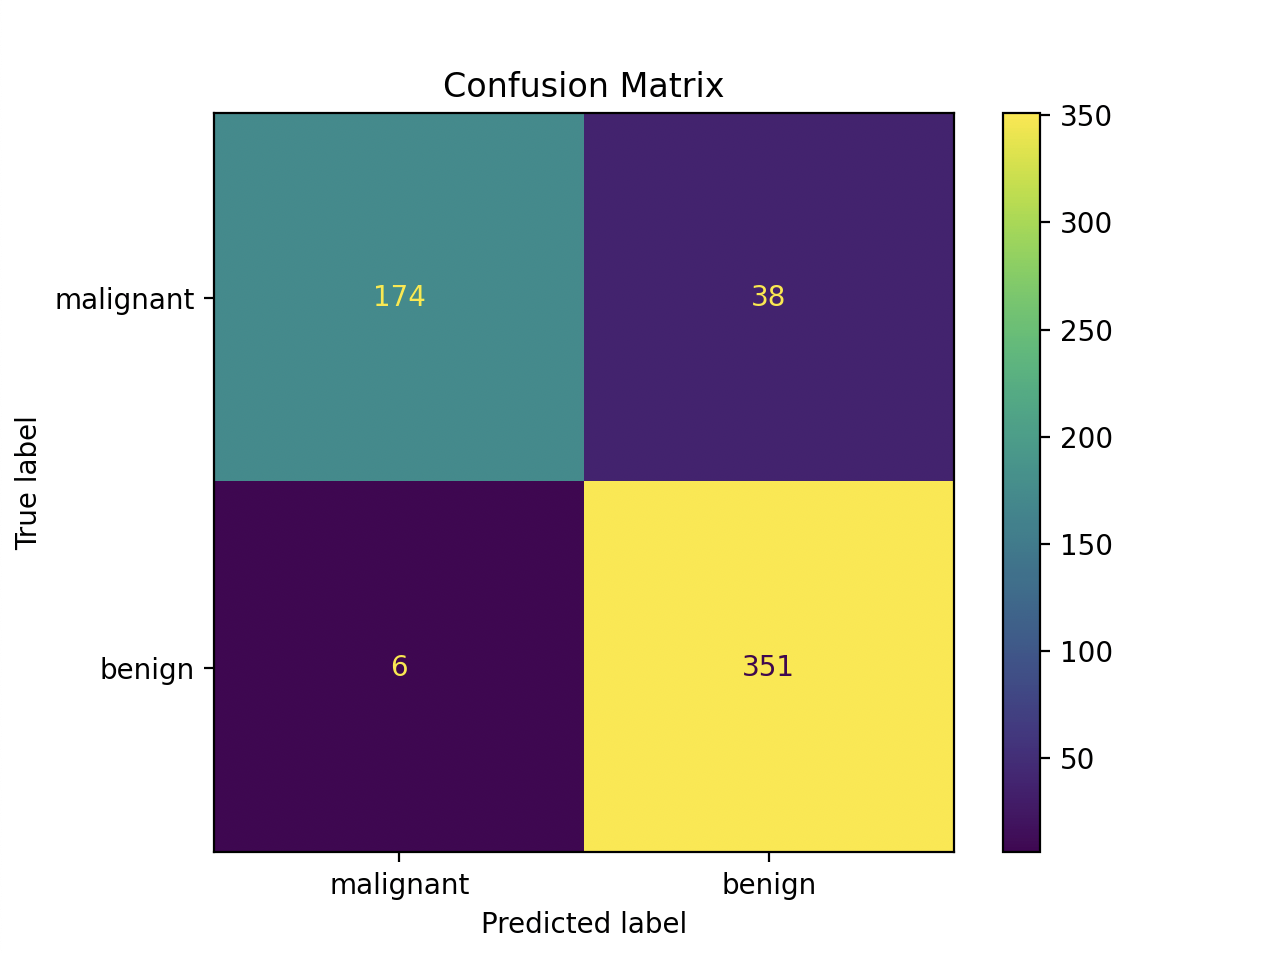
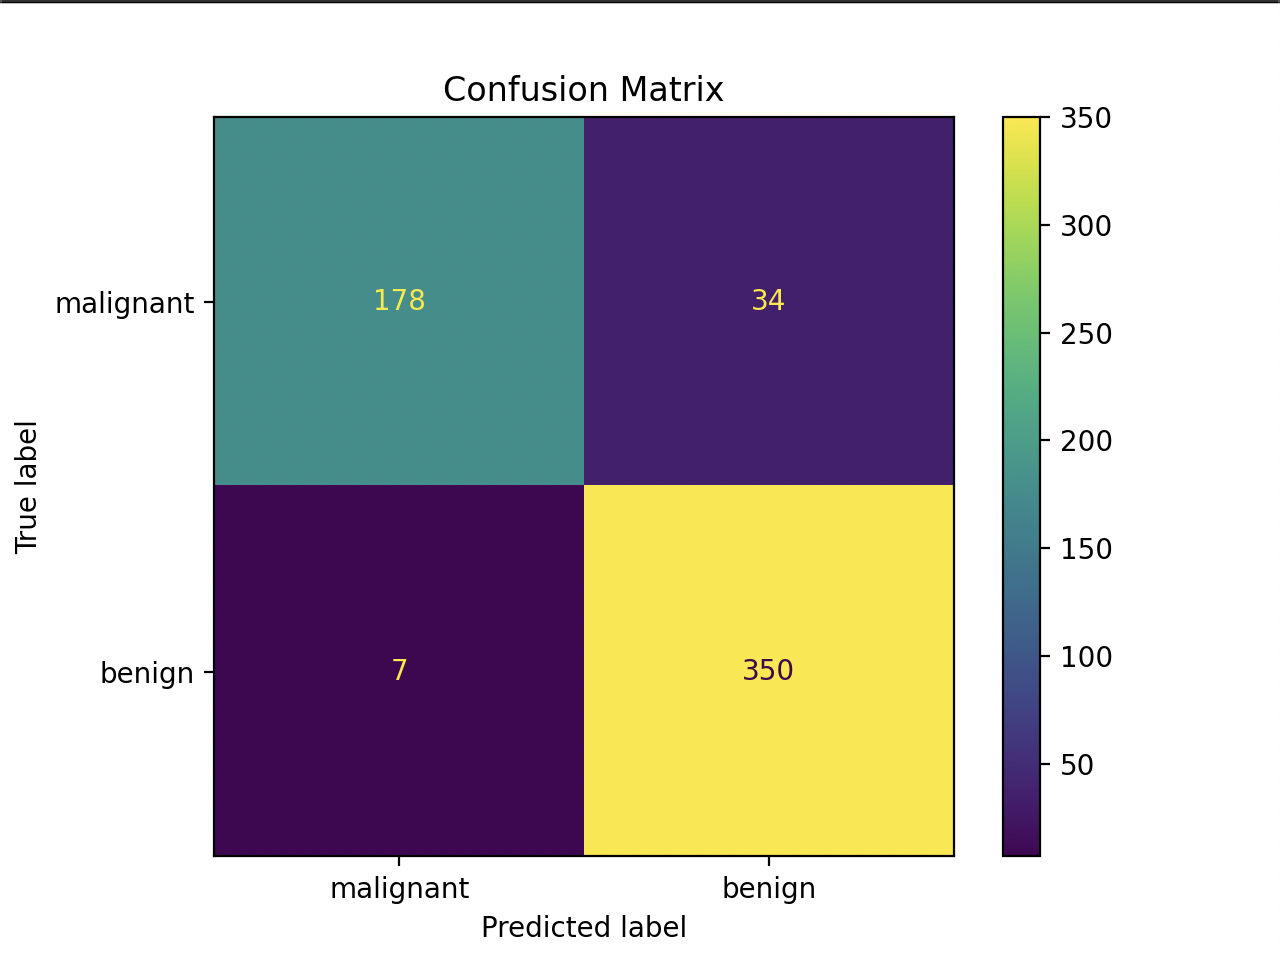
wdbc_classification_02

diff --git a/wdbc_classification.py b/wdbc_classification.py
@@ -25,7 +25,7 @@ if __name__ == '__main__':
     wdbc = load_wdbc_data('10주차 과제/ml01_lab/data/wdbc.data')     # TODO #1) Implement 'load_wdbc_data()'
 
     # Train a model
-    model = svm.SVC(kernel='rbf', C=1.0, gamma='scale')                           # TODO #2) Find a better classifier (SVC accuracy: 0.902)
+    model = svm.SVC(kernel='rbf', C=4.0, gamma='scale')                           # TODO #2) Find a better classifier ()
     model.fit(wdbc.data, wdbc.target)
 
     # Test the model
